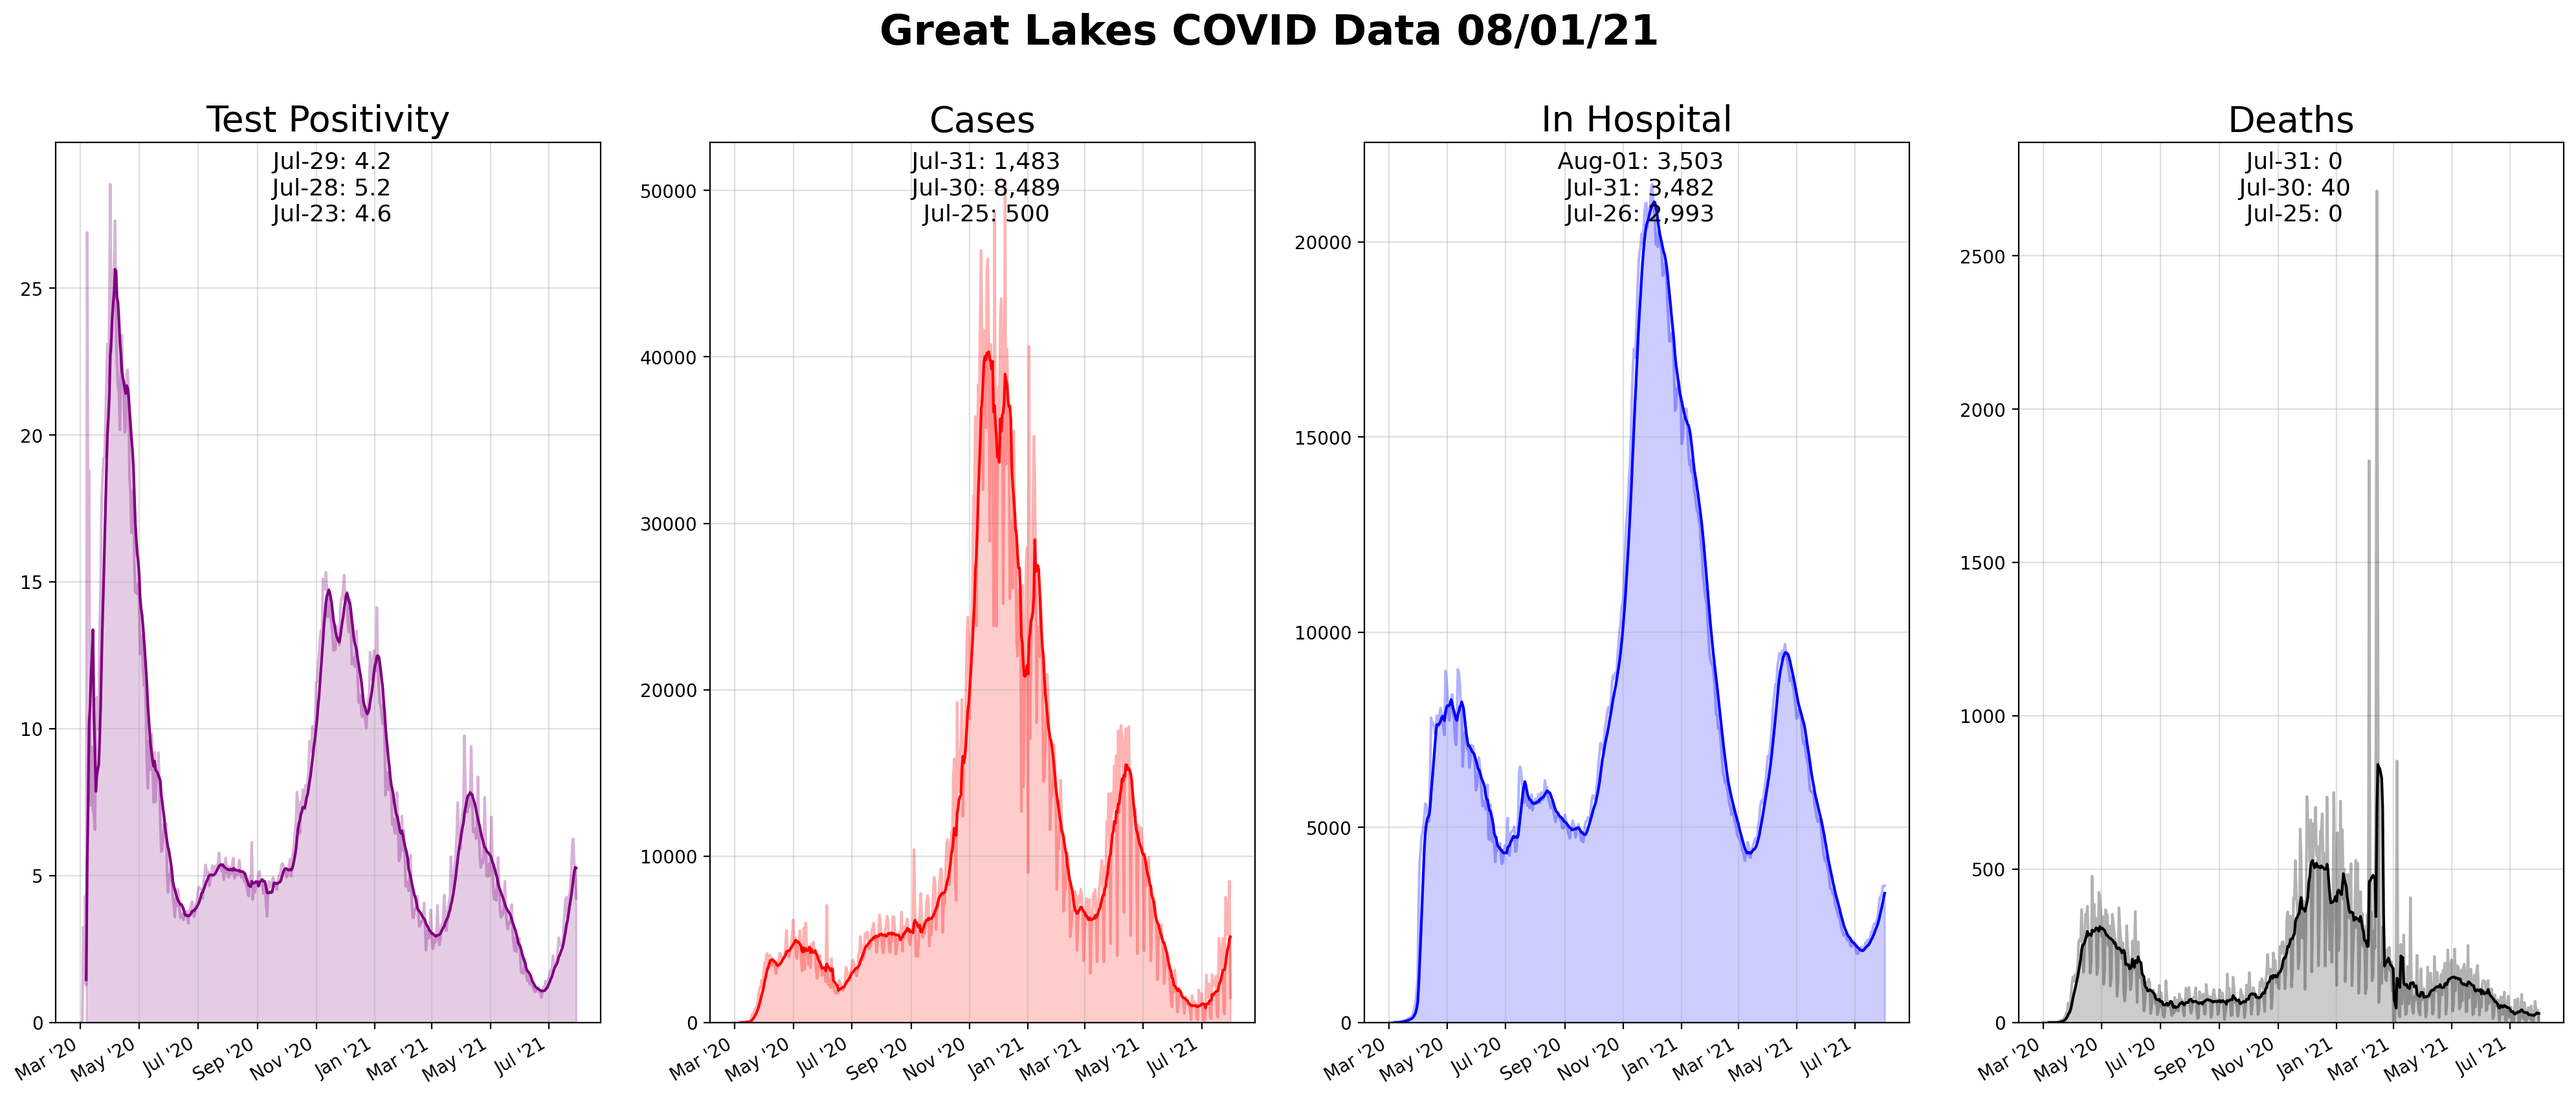
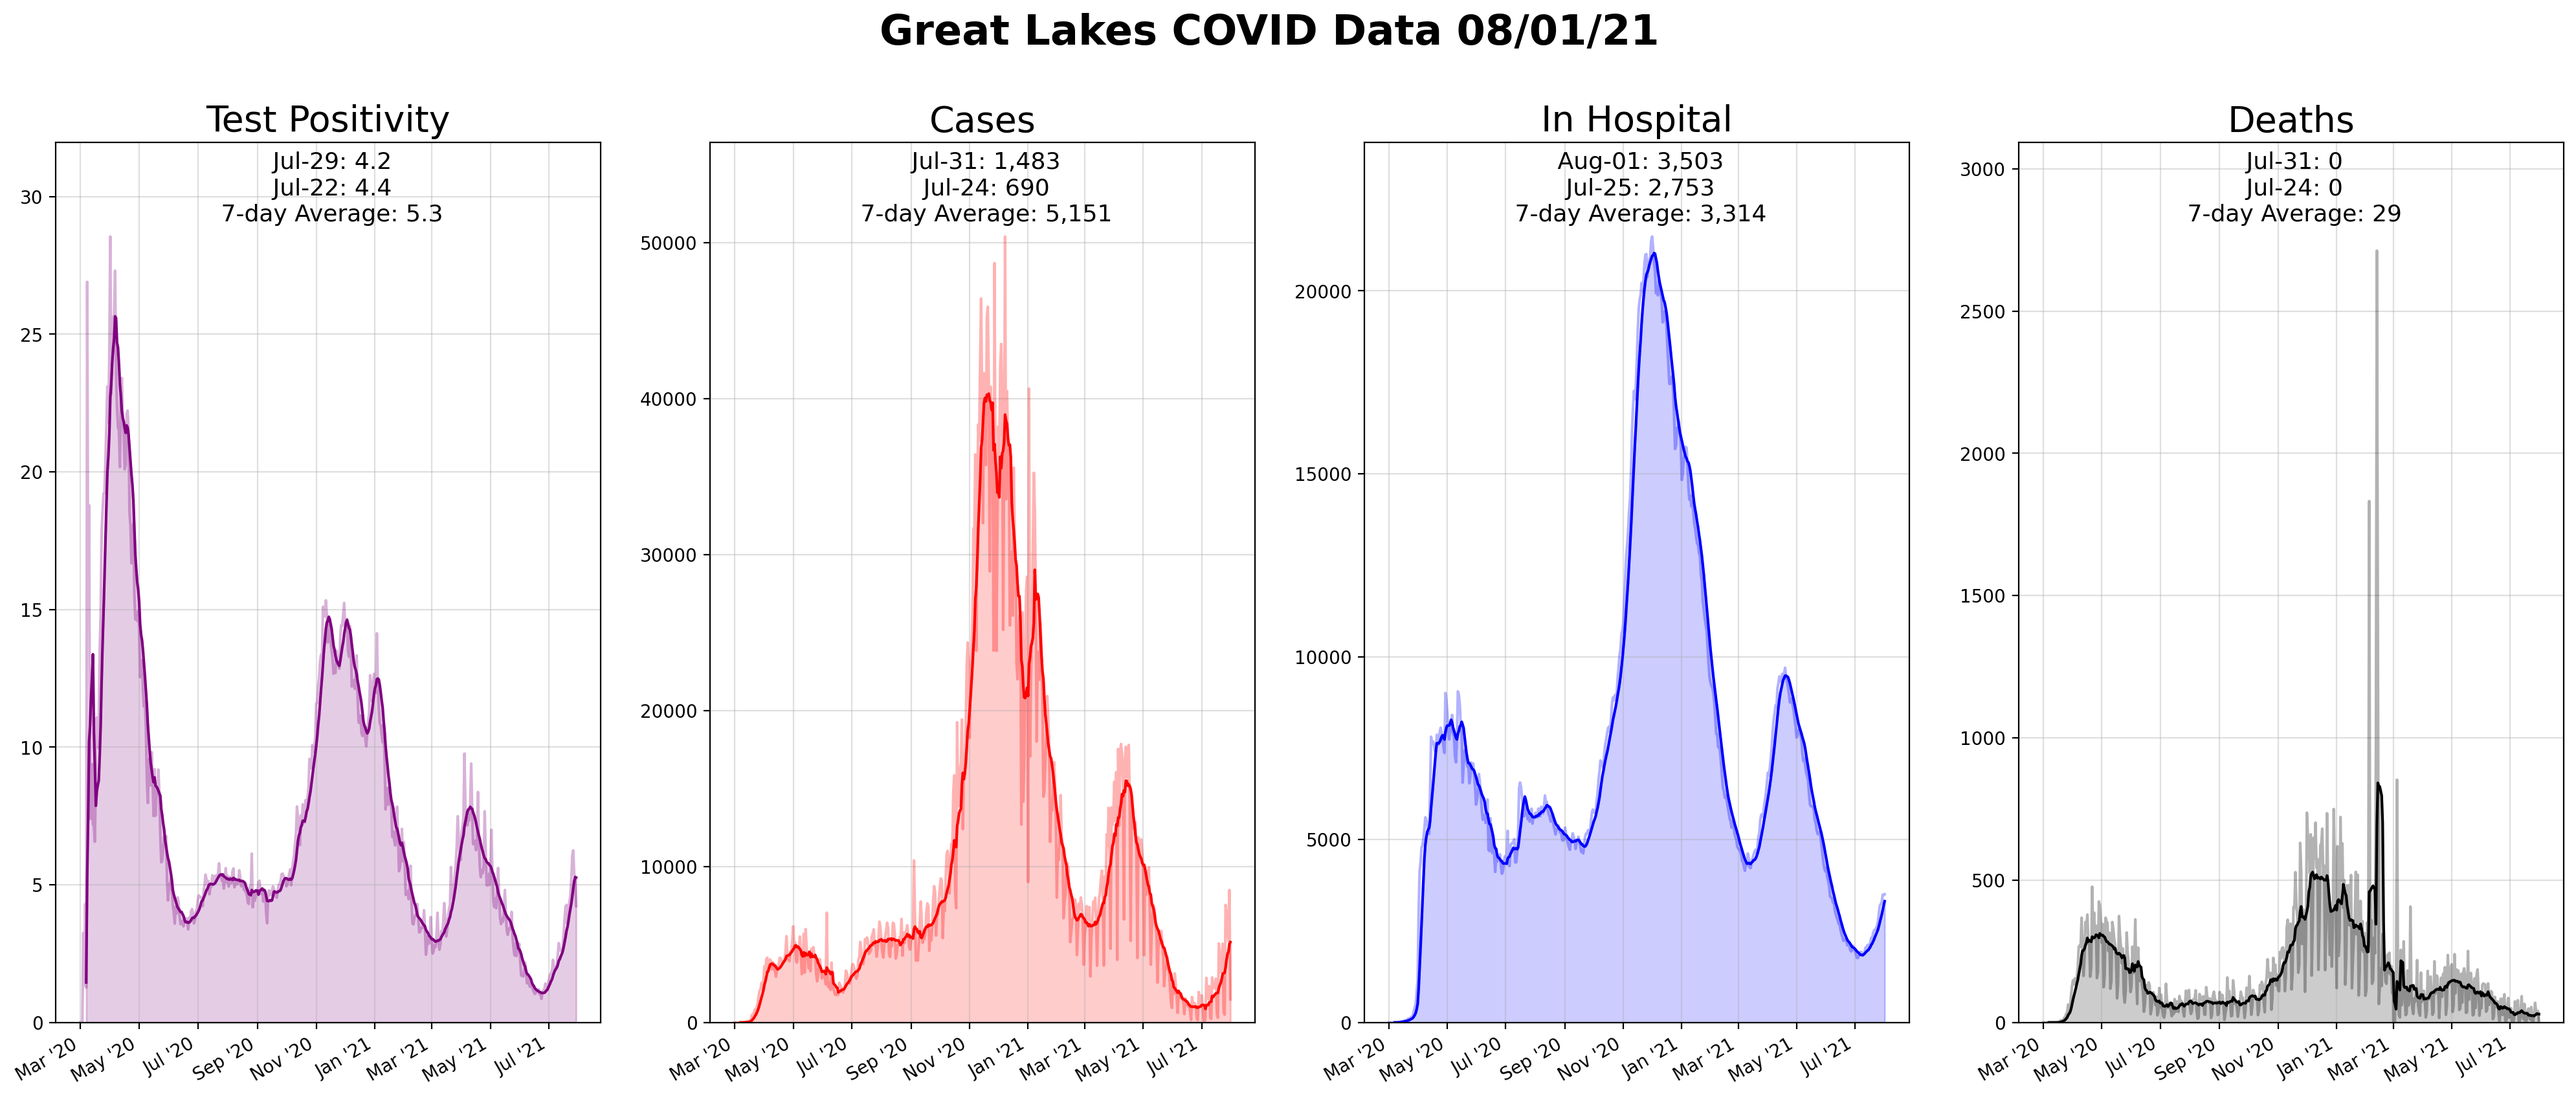
Made some viz changes

diff --git a/data_viz.py b/data_viz.py
@@ -19,6 +19,7 @@ rolling: Boolean, True to overlay 7-day average
 def plot(data, ax=None, plot_color="blue", label="", rolling=True, font={ 'size':13, 'weight':'light'}):
     ax = ax or plt.gca()
     x, y0 = data.date, data.iloc[:,1]
+    ax.margins(y=.12)
     if(rolling):
         y1 = data.iloc[:,1].rolling(7).mean()
         ax.plot(x, y0, alpha=.3, color=plot_color)
@@ -29,15 +30,21 @@ def plot(data, ax=None, plot_color="blue", label="", rolling=True, font={ 'size'
         ax.fill_between(x, y0, 0, facecolor=plot_color, color=plot_color, alpha=0.2)
     ax.set_title(label, fontdict={'size': 20})
     subtext = []
-    for i in [-1,-2,-7]:
+    for i in [-1,-8]:
         last_update_day = x.iloc[i].strftime('%b-%d')
         last_val = round(y0.iloc[i], 1)
         last_val_formatted = '{:,}'.format(last_val)
         subtext.append(f" {last_update_day}: {last_val_formatted}")
-
     ax.text(.5, 0.97, subtext[0], ha='center', transform=ax.transAxes, fontdict=font)
     ax.text(.5, 0.94, subtext[1], ha='center',transform=ax.transAxes, fontdict=font)
-    ax.text(.5, 0.91, subtext[2], ha='center',transform=ax.transAxes, fontdict=font)
+    if rolling:
+        if label == "Test Positivity":
+            avg = round(y1.iloc[-1], 1)
+        else:
+            avg = int(round(y1.iloc[-1]))
+        avg_formatted = '{:,}'.format(avg)
+        subtext.append(f" 7-day Average: {avg_formatted}")
+        ax.text(.5, 0.91, subtext[2], ha='center',transform=ax.transAxes, fontdict=font)
     ax.xaxis.set_major_formatter(mdates.DateFormatter('%b \'%y'))
     ax.grid(alpha=.4)
     ax.set_ylim(0)
@@ -161,9 +168,9 @@ def plot_tables(region="USA", start_date=pd.Timestamp(2020,1,1), end_date=pd.Tim
     fig, axs = plt.subplots(2,2, dpi=300, figsize=[6.4,3.6], subplot_kw={'fc':'white'})
     plt.subplots_adjust(wspace=0.05, hspace=0, bottom=0)
     plot_table(case, axs[0][0], plot_color=("xkcd:light red", "xkcd:pale pink"))
-    plot_table(death, axs[1][0], plot_color=("xkcd:purplish", "xkcd:light lavender"))
-    plot_table(hosp, axs[1][1], plot_color=("xkcd:steel grey", "xkcd:light grey"))
-    plot_table(pos, axs[0][1], plot_color=("xkcd:sea blue", "xkcd:pale blue"))
+    plot_table(pos, axs[0][1], plot_color=("xkcd:purplish", "xkcd:light lavender"))
+    plot_table(death, axs[1][0], plot_color=("xkcd:steel grey", "xkcd:light grey"))
+    plot_table(hosp, axs[1][1], plot_color=("xkcd:sea blue", "xkcd:pale blue"))
     fig.suptitle(f"{region} COVID Data {end_date.strftime('%m/%d/%y')}\n All Numbers are 7-day Rolling Averages", fontweight="bold")
     plt.savefig(f"images/tables/{region}.png", bbox_inches='tight', pad_inches=.1, facecolor='white')
     print(f"LOG: Plotted tables for {region}")
